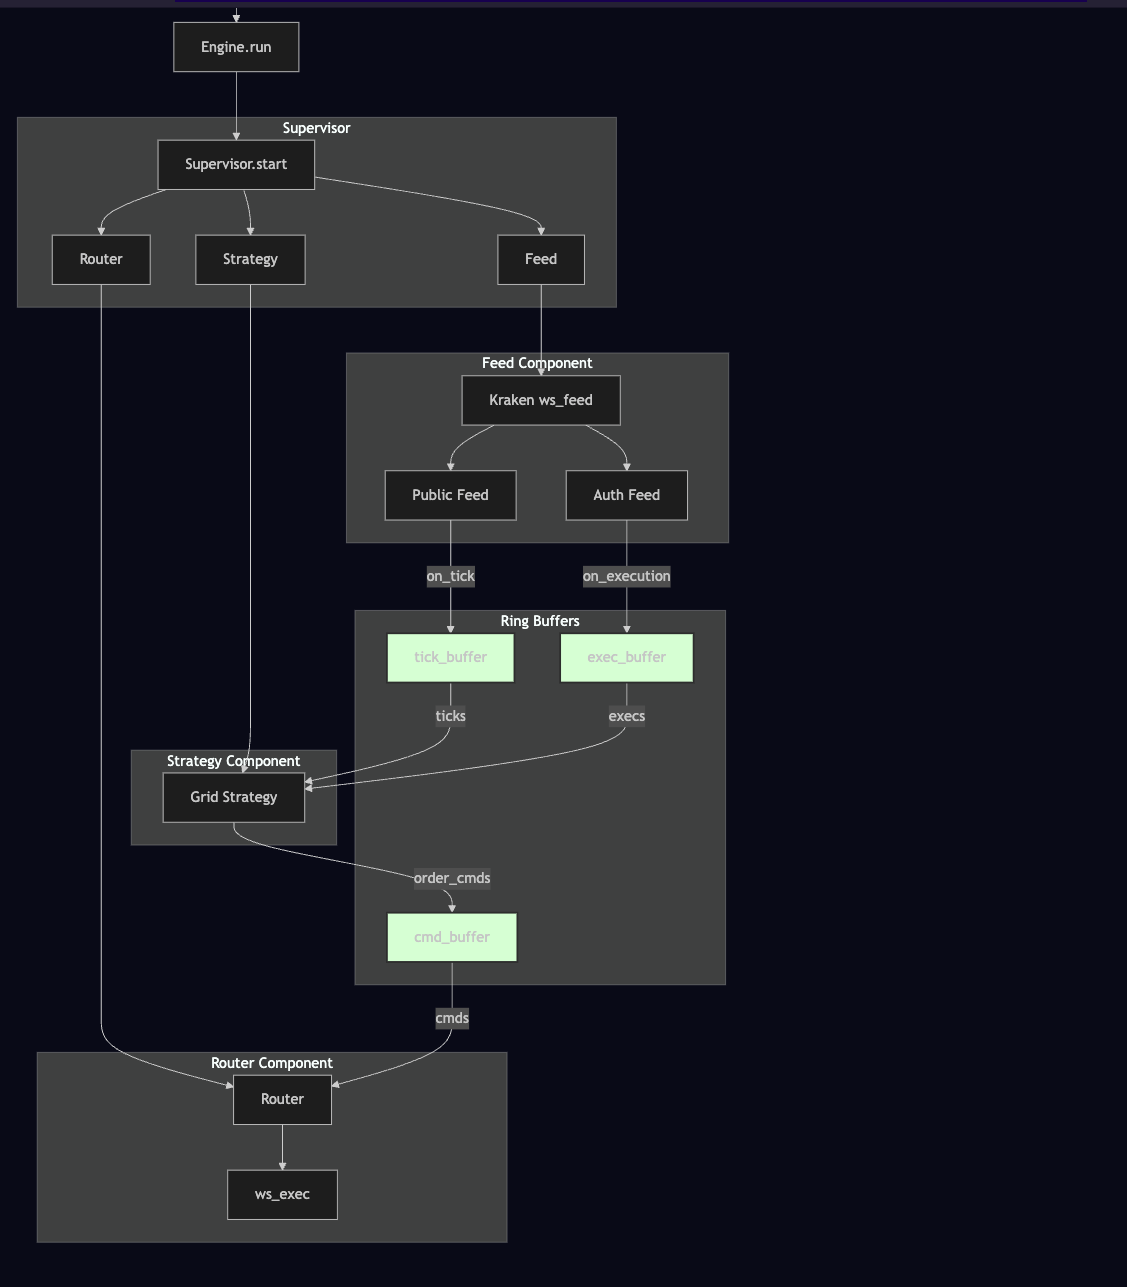
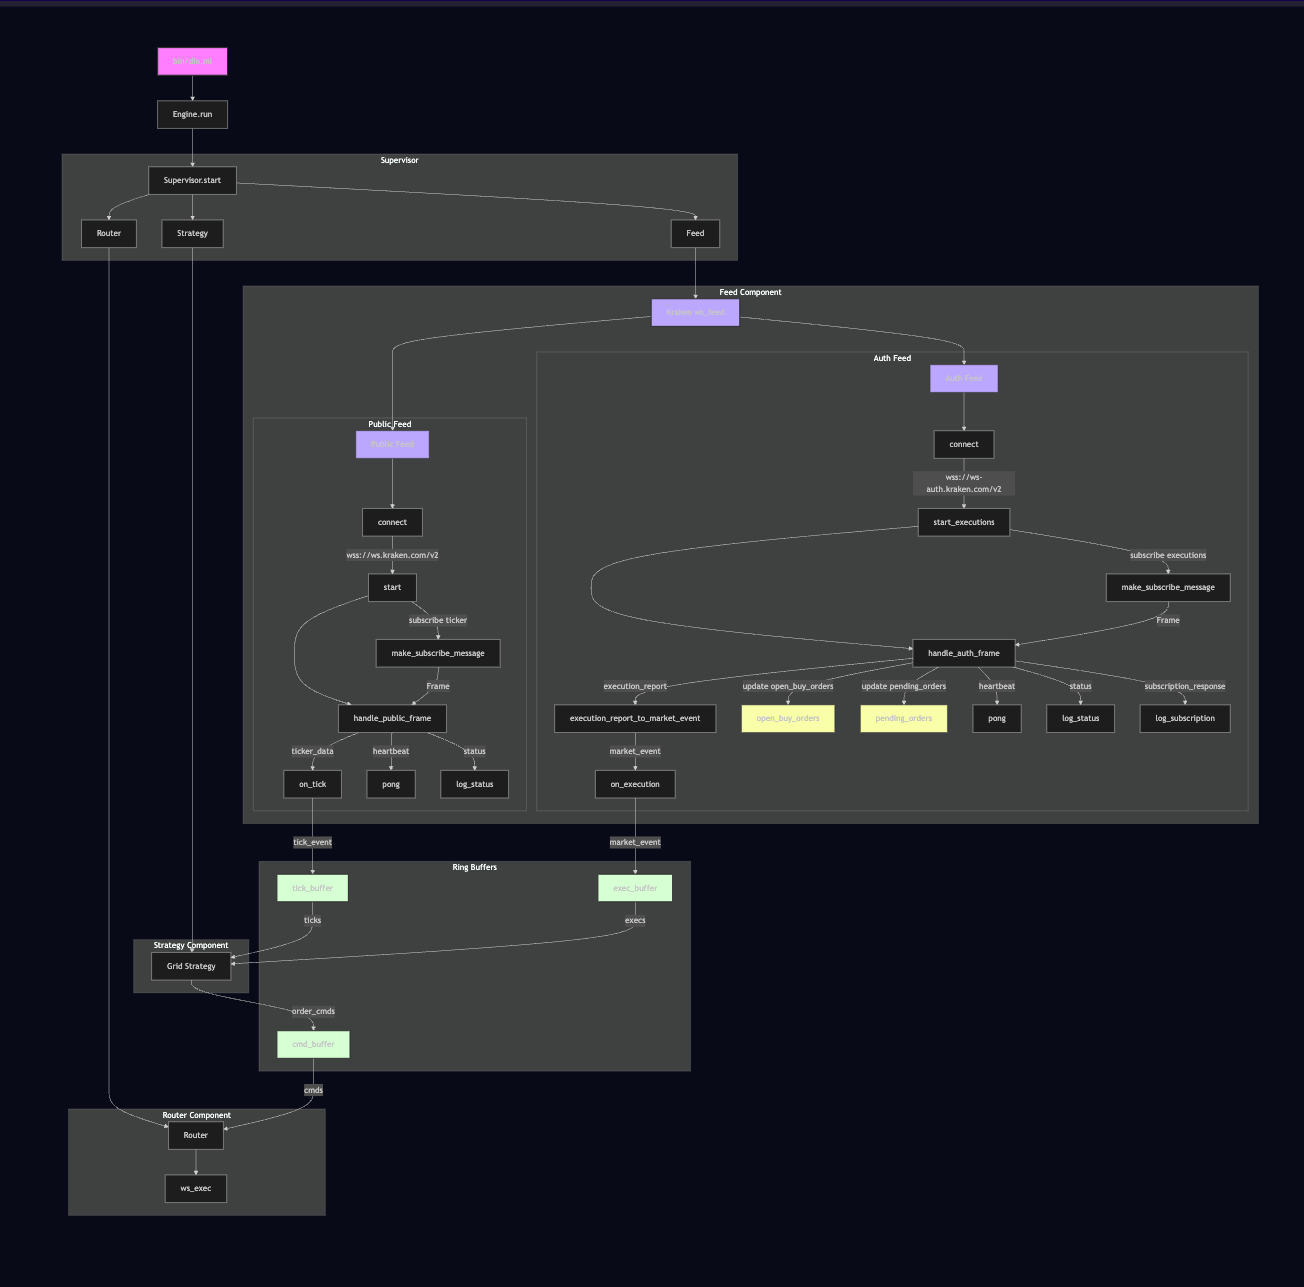
feat: read config file

diff --git a/docs/workflow.md b/docs/workflow.md
@@ -18,8 +18,34 @@ graph TD
         D --> J[Kraken ws_feed]
         J --> K[Public Feed]
         J --> L[Auth Feed]
-        K -- on_tick --> G
-        L -- on_execution --> I
+
+        subgraph "Public Feed"
+            K --> KP[connect]
+            KP -->|wss://ws.kraken.com/v2| KQ[start]
+            KQ -->|subscribe ticker| KR[make_subscribe_message]
+            KQ --> KS[handle_public_frame]
+            KR -->|Frame| KS
+            KS -->|ticker_data| KT[on_tick]
+            KT -->|tick_event| G
+            KS -->|heartbeat| KU[pong]
+            KS -->|status| KV[log_status]
+        end
+
+        subgraph "Auth Feed"
+            L --> LP[connect]
+            LP -->|wss://ws-auth.kraken.com/v2| LQ[start_executions]
+            LQ -->|subscribe executions| LR[make_subscribe_message]
+            LQ --> LS[handle_auth_frame]
+            LR -->|Frame| LS
+            LS -->|execution_report| LT[execution_report_to_market_event]
+            LT -->|market_event| LU[on_execution]
+            LU -->|market_event| I
+            LS -->|update open_buy_orders| LV[open_buy_orders]
+            LS -->|update pending_orders| LW[pending_orders]
+            LS -->|heartbeat| LX[pong]
+            LS -->|status| LY[log_status]
+            LS -->|subscription_response| LZ[log_subscription]
+        end
     end
 
     subgraph "Strategy Component"
@@ -39,3 +65,8 @@ graph TD
     style G fill:#dfd,stroke:#333,stroke-width:2px
     style H fill:#dfd,stroke:#333,stroke-width:2px
     style I fill:#dfd,stroke:#333,stroke-width:2px
+    style J fill:#bbf,stroke:#333,stroke-width:2px
+    style K fill:#bbf,stroke:#333,stroke-width:1px
+    style L fill:#bbf,stroke:#333,stroke-width:1px
+    style LV fill:#ffb,stroke:#333,stroke-width:1px
+    style LW fill:#ffb,stroke:#333,stroke-width:1px
